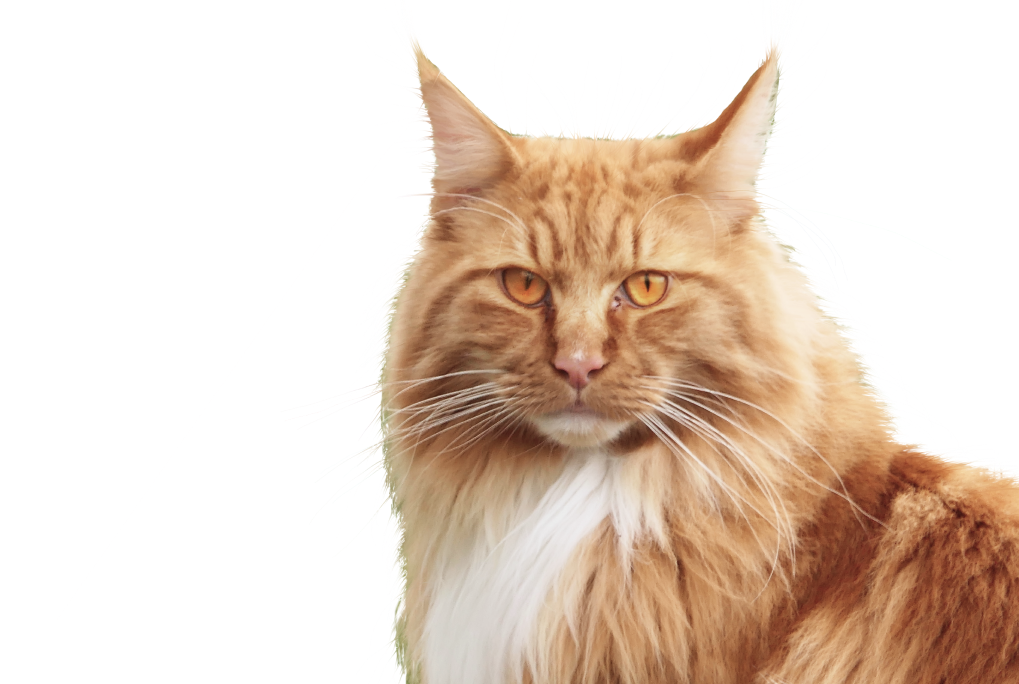
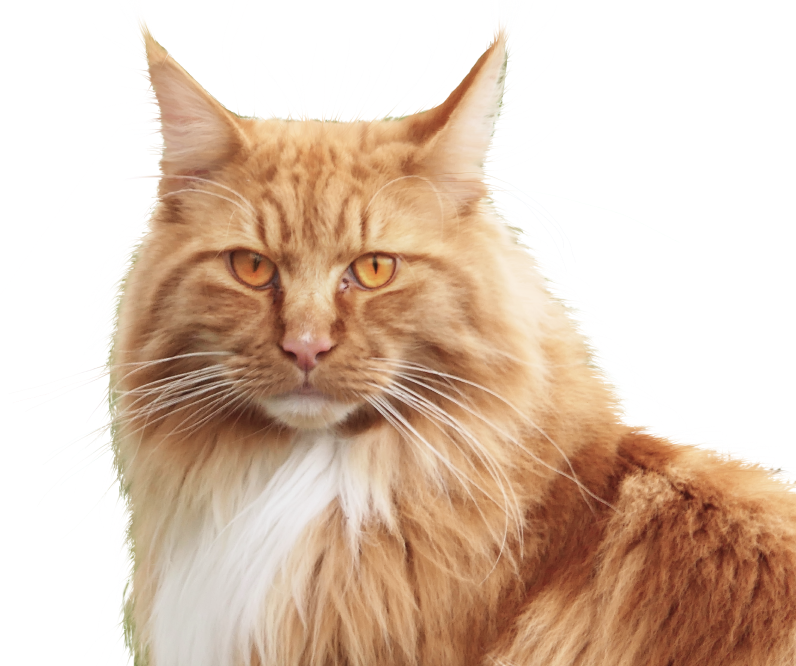
Header adaptiv

diff --git a/dist/css/style.css b/dist/css/style.css
@@ -4,10 +4,10 @@
   box-sizing: inherit; }
 
 html {
-  box-sizing: border-box; }
+  box-sizing: border-box;
+  min-width: 320px; }
 
 body {
-  min-width: 320px;
   padding: 0;
   margin: 0;
   font-family: "Roboto", "Arial", sans-serif;
@@ -40,10 +40,18 @@ img {
   .button:active {
     opacity: 0.9; }
 
+@media (max-width: 767px) and (min-width: 320px) {
+  .button {
+    font-size: 12px;
+    line-height: 20px;
+    width: 140px;
+    min-height: 40px;
+    margin: 0 auto; } }
+
 .header {
   position: relative;
-  background: #181617 url("../img/HeaderCat.png") no-repeat 100% 100%;
-  height: 100vh; }
+  padding-left: 40px;
+  background: #181617; }
   .header__wrapper {
     display: flex;
     align-items: center;
@@ -69,3 +77,59 @@ img {
     width: 280px;
     font-size: 16px;
     line-height: 24px; }
+  .header__cat {
+    position: absolute;
+    bottom: 0; }
+
+@media (min-width: 1366px) {
+  .header {
+    height: 684px; }
+    .header__cat {
+      right: -25px; } }
+
+@media (max-width: 1366px) and (min-width: 981px) {
+  .header {
+    overflow: hidden;
+    height: 684px; }
+    .header__cat {
+      left: 42%; } }
+
+@media (max-width: 980px) and (min-width: 768px) {
+  .header {
+    overflow: hidden;
+    padding-top: 70px;
+    height: 595px; }
+    .header__logo {
+      top: 30px; }
+    .header__cat {
+      height: 535px;
+      width: auto;
+      left: 40%; } }
+
+@media (max-width: 767px) and (min-width: 320px) {
+  .header {
+    overflow: hidden;
+    padding-left: 40px;
+    padding-right: 40px;
+    padding-top: 100px;
+    min-height: 617px;
+    text-align: center; }
+    .header__wrapper {
+      max-width: 250px; }
+    .header__subtitle, .header__title {
+      width: 250px; }
+    .header__logo {
+      top: 30px; }
+    .header__city, .header__subtitle {
+      font-size: 14px;
+      line-height: 20px; }
+    .header__subtitle {
+      margin-bottom: 35px; }
+    .header__title {
+      margin: 15px 0;
+      font-size: 36px;
+      line-height: 42px; }
+    .header__cat {
+      width: 320px;
+      left: 50%;
+      transform: translateX(-50%); } }

diff --git a/source/scss/blocks/header.scss b/source/scss/blocks/header.scss
@@ -1,7 +1,7 @@
 .header {
     position: relative;
-    background: $bgdark url('../img/HeaderCat.png') no-repeat 100% 100%;
-    height: 100vh;
+    padding-left: 40px;
+    background: $bgdark;
 
     &__wrapper {
         display: flex;
@@ -36,5 +36,96 @@
         width: 280px;
         font-size: 16px;
         line-height: 24px;
+    }
+
+    &__cat {
+        position: absolute;
+        bottom: 0;
+    }
+}
+
+@media (min-width: $desktop) {
+    .header {
+        height: 684px;
+        
+        &__cat {
+            right: -25px;
+        }
+    }
+}
+
+@media (max-width: $desktop) and (min-width: $min-desktop + 1) {
+    .header {
+        overflow: hidden;
+        height: 684px;
+
+        &__cat {
+            // width: 80%;
+            left:42%;
+        }
+    }
+}
+
+@media (max-width: $min-desktop) and (min-width: $tablet) {
+    .header {
+        overflow: hidden;
+        padding-top: 70px;
+        height: 595px;
+
+        &__logo {
+            top: 30px;
+        }
+
+        &__cat {
+            height: 535px;
+            width: auto;
+            left: 40%;
+        }
+    }
+}
+
+@media (max-width: $tablet - 1) and (min-width: $mobile) {
+    .header {
+        overflow: hidden;
+        padding-left: 40px;
+        padding-right: 40px;
+        padding-top: 100px;
+        min-height: 617px;
+        text-align: center;
+
+        &__wrapper {
+            max-width: 250px;
+        }
+
+        &__subtitle,
+        &__title {
+            width: 250px;
+        }
+
+        &__logo {
+            top: 30px;
+        }
+
+        &__city,
+        &__subtitle {
+            font-size: 14px;
+            line-height: 20px;
+        }
+
+        &__subtitle {
+            margin-bottom: 35px;
+        }
+
+        &__title {
+            margin: 15px 0;
+            font-size: 36px;
+            line-height: 42px;
+        }
+
+        &__cat {
+            width: 320px;
+            left: 50%;
+            transform: translateX(-50%);
+        }
     }
 }

diff --git a/dist/index.html b/dist/index.html
@@ -8,6 +8,9 @@
     <link rel="stylesheet" href="css/style.css">
 </head>
 <body>
+
+    <!-- header -->
+
     <header class="header">
         <img src="img/icons/logo.svg" alt="Логотип" class="header__logo" width="55" height="25">
         <div class="header__wrapper">
@@ -18,6 +21,7 @@
                 <a href="#" class="button header__btn">Смотерть котиков</a>
             </div>
         </div>
+        <img src="img/HeaderCat.png" alt="Рыжий Мейн кун" width="796" class="header__cat">
     </header>
 </body>
 </html>

diff --git a/source/index.html b/source/index.html
@@ -8,6 +8,9 @@
     <link rel="stylesheet" href="css/style.css">
 </head>
 <body>
+
+    <!-- header -->
+
     <header class="header">
         <img src="img/icons/logo.svg" alt="Логотип" class="header__logo" width="55" height="25">
         <div class="header__wrapper">
@@ -18,6 +21,7 @@
                 <a href="#" class="button header__btn">Смотерть котиков</a>
             </div>
         </div>
+        <img src="img/HeaderCat.png" alt="Рыжий Мейн кун" width="796" class="header__cat">
     </header>
 </body>
 </html>

diff --git a/source/scss/blocks/button.scss b/source/scss/blocks/button.scss
@@ -21,3 +21,13 @@
         opacity: 0.9;
     }
 }
+
+@media (max-width: $tablet - 1) and (min-width: $mobile) {
+    .button {
+        font-size: 12px;
+        line-height: 20px;
+        width: 140px;
+        min-height: 40px;
+        margin: 0 auto;
+    }
+}

diff --git a/source/scss/variables.scss b/source/scss/variables.scss
@@ -9,4 +9,7 @@ $color-first: #a07b50;
 $color-second: #ddd0c3;
 $color-footer: #fdf2e6;
 
-$desctop: 1366px;
+$desktop: 1366px;
+$min-desktop: 980px;
+$tablet: 768px;
+$mobile: 320px;

diff --git a/source/scss/global.scss b/source/scss/global.scss
@@ -6,10 +6,10 @@
 
 html {
   box-sizing: border-box;
+  min-width: 320px;
 }
 
 body {
-  min-width: 320px;
   padding: 0;
   margin: 0;
   font-family: $font-main;
